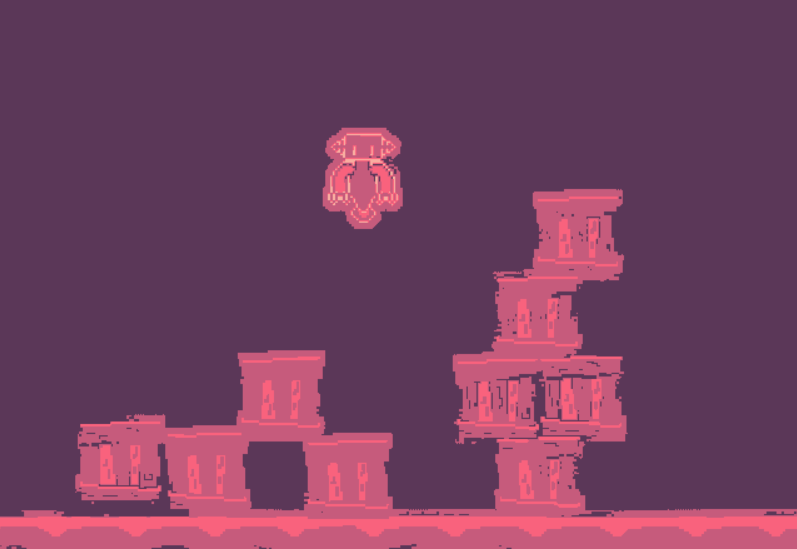
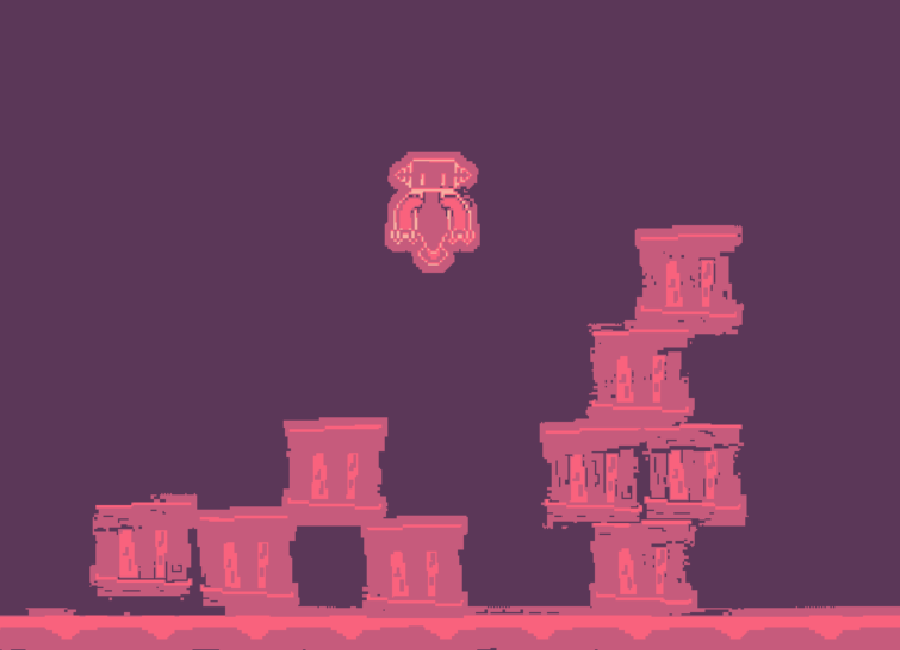
Fix Image Sizes

Changed region(s): [[0.0, 0.3406, 1.0, 1.0], [0.3915, 0.2168, 0.542, 0.4335]]

diff --git a/index.html b/index.html
@@ -266,19 +266,24 @@
                                           <li data-target="#carouselExampleIndicators" data-slide-to="0" class="active"></li>
                                           <li data-target="#carouselExampleIndicators" data-slide-to="1"></li>
                                           <li data-target="#carouselExampleIndicators" data-slide-to="2"></li>
+                                          <li data-target="#carouselExampleIndicators" data-slide-to="3"></li>
+                                          <li data-target="#carouselExampleIndicators" data-slide-to="4"></li>
                                         </ol>
                                         <div class="carousel-inner">
+                                            <div class="carousel-item active">
+                                              <img class="d-block w-100 h-100" src="assets/img/portfolio/OoS/00.png" alt="First slide">
+                                            </div>
                                           <div class="carousel-item active">
-                                            <img class="d-block w-100" src="assets/img/portfolio/OoS/00.png" alt="First slide">
+                                            <img class="d-block w-100 h-100" src="assets/img/portfolio/OoS/04.png" alt="First slide">
                                           </div>
                                           <div class="carousel-item">
-                                            <img class="d-block w-100" src="assets/img/portfolio/OoS/01.png" alt="Second slide">
+                                            <img class="d-block w-100 h-100" src="assets/img/portfolio/OoS/01.png" alt="Second slide">
                                           </div>
                                           <div class="carousel-item">
-                                            <img class="d-block w-100" src="assets/img/portfolio/OoS/02.png" alt="Third slide">
+                                            <img class="d-block w-100 h-100" src="assets/img/portfolio/OoS/02.png" alt="Third slide">
                                           </div>
                                           <div class="carousel-item">
-                                            <img class="d-block w-100" src="assets/img/portfolio/OoS/03.png" alt="Third slide">
+                                            <img class="d-block w-100 h-100" src="assets/img/portfolio/OoS/03.png" alt="Third slide">
                                           </div>
                                         </div>
                                         <a class="carousel-control-prev" href="#carouselExampleIndicators" role="button" data-slide="prev">
@@ -397,6 +402,8 @@
                                           <li data-target="#carouselExampleIndicators3" data-slide-to="0" class="active"></li>
                                           <li data-target="#carouselExampleIndicators3" data-slide-to="1"></li>
                                           <li data-target="#carouselExampleIndicators3" data-slide-to="2"></li>
+                                          <li data-target="#carouselExampleIndicators3" data-slide-to="3"></li>
+                                          <li data-target="#carouselExampleIndicators3" data-slide-to="4"></li>
                                         </ol>
                                         <div class="carousel-inner">
                                           <div class="carousel-item active">
